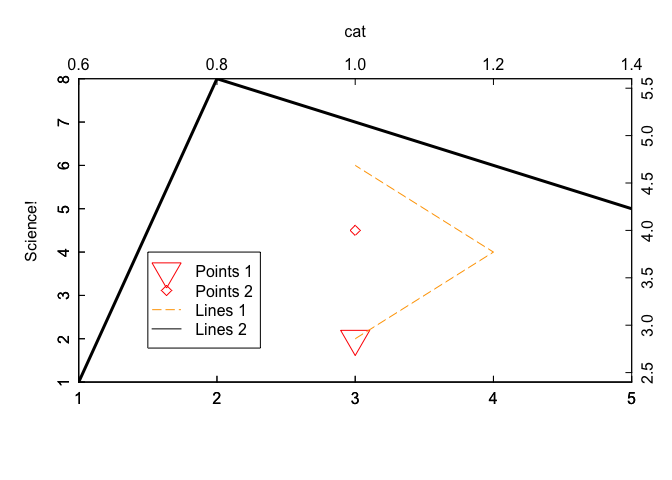
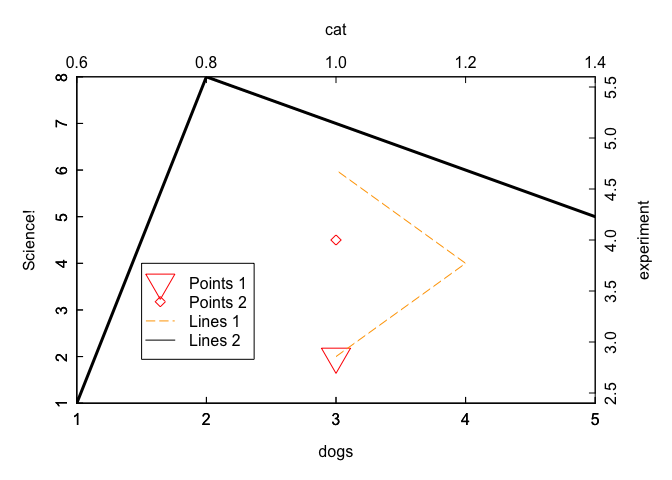
par() within gsplot() for #131

diff --git a/README.md b/README.md
@@ -57,11 +57,11 @@ demoPlot
 
 ``` r
 library(gsplot)
-usrDef <- gsplot() %>% 
+usrDef <- gsplot(mar=c(4,4,4,4)) %>% 
      points(x=1, y=2, side=c(3,2), legend.name="Points 1", cex=3, xlab='cat') %>% 
-     points(x=3, y=4, side=c(1,4), legend.name="Points 2", pch=5, col="red") %>% 
+     points(x=3, y=4, side=c(1,4), legend.name="Points 2", pch=5, col="red", ylab='experiment') %>% 
      lines(x=c(3,4,3), y=c(2,4,6), legend.name="Lines 1", lty=5, col="orange") %>%
-     lines(x=c(1,2,5), y=c(1,8,5), legend.name="Lines 2", lwd=3, ylab='Science!') %>%  
+     lines(x=c(1,2,5), y=c(1,8,5), legend.name="Lines 2", lwd=3, ylab='Science!', xlab='dogs') %>%  
      legend(x=1.5,y=4)
 usrDef
 ```
